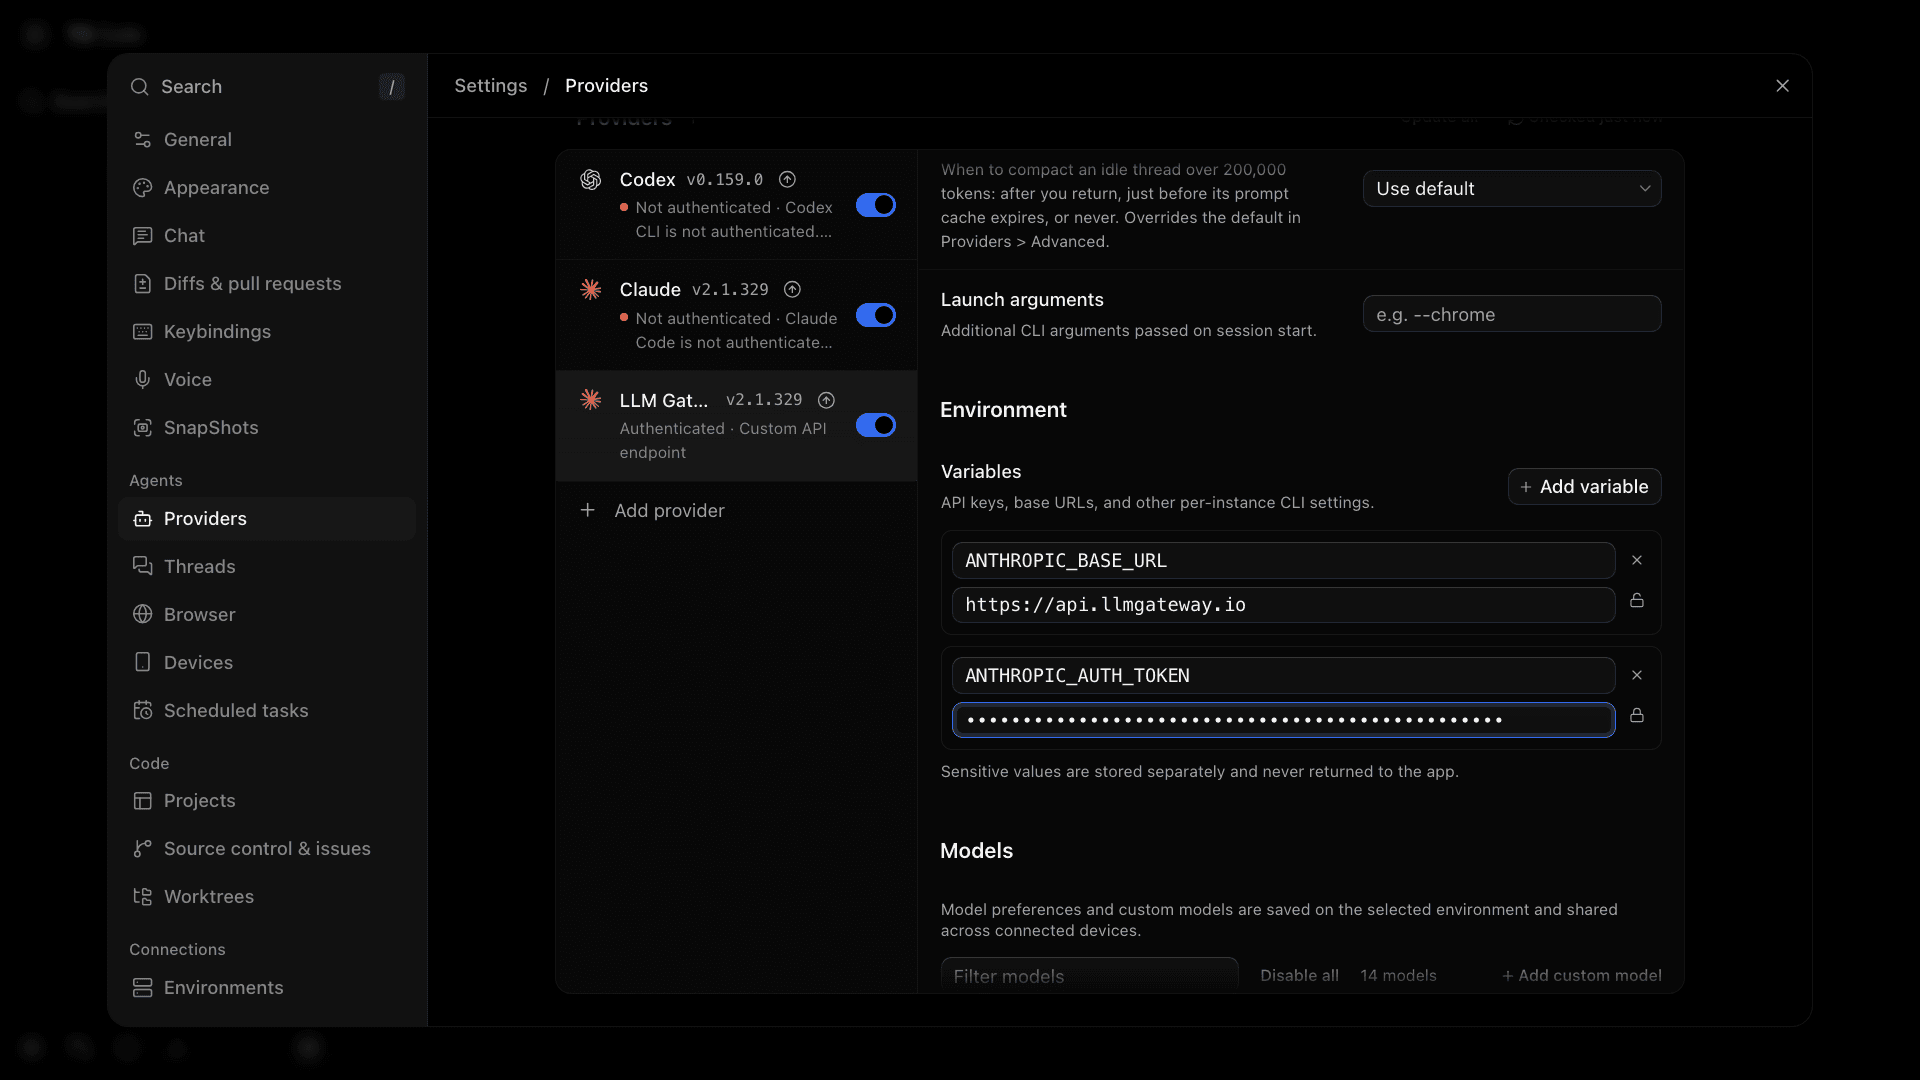
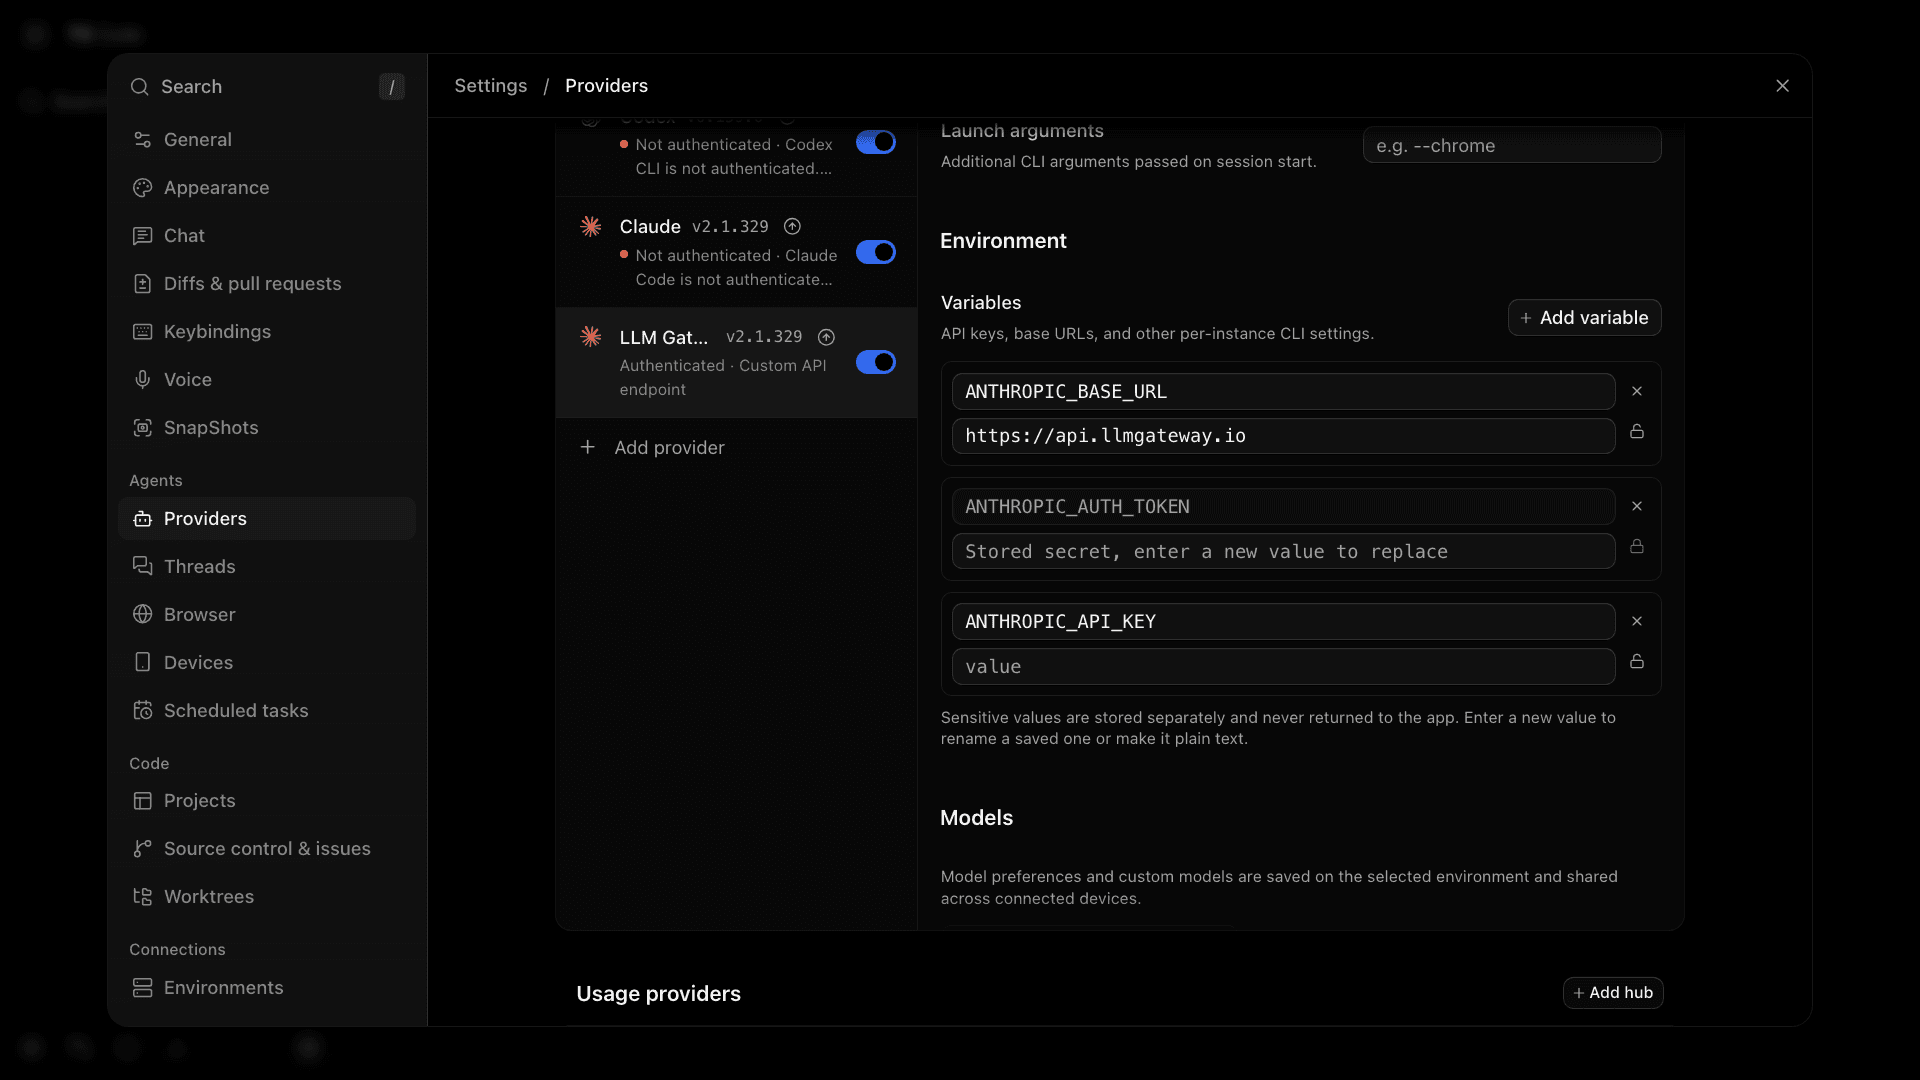
docs(guides): apply T3 Code guide review (#5185)
## Summary

#5184 added the T3 Code guide and merged while CodeRabbit's code review
was rate limited. Two independent reviews were then run and posted on
that PR ([fact
check](https://github.com/theopenco/llmgateway/pull/5184#pullrequestreview-6008586116),
[editorial, SEO, and
accessibility](https://github.com/theopenco/llmgateway/pull/5184#pullrequestreview-6008586220)).
This PR applies their findings to both copies of the guide.

| Finding | Change |
| --- | --- |
| `ANTHROPIC_API_KEY` was only suggested conditionally | Listed as a
third variable with an empty value; new screenshot shows all three |
| The model picker step came before a project and thread existed | "Try
a coding task" now starts with **Add project**, then the picker, then
the prompt |
| The Codex note could not be followed | Spells out the directory,
`config.toml`, **Configure manually**, and a model that passed |
| Vague claim about built-in Claude models | Names the built-in model
that passed and says what to do when one is rejected |
| Lock instruction arrived after the step it applies to |
Sensitive-value paragraph rewritten in order |
| Prompt assumed the reader's project has `slugify.ts` | Says the prompt
comes from the demo project |
| "Check your dashboard" did not say where | Names the project's
**Activity** page, as the Conductor guide does |
| Troubleshooting missed failures the body sets up | Adds a missing
`claude` binary, an unsaved base URL, and a wrong key |
[…]

diff --git a/apps/ui/src/content/guides/t3codes.md b/apps/ui/src/content/guides/t3codes.md
@@ -7,9 +7,9 @@ description: Add an LLM Gateway provider to T3 Code, choose a model, and verify 
 date: 2026-11-21
 ---
 
-[T3 Code](https://t3.codes) is an open-source desktop, web, and mobile interface for the coding agents installed on your machine. It does not call models itself: it drives Claude Code, Codex, OpenCode, and other agents. Point one of them at LLM Gateway and every thread you start in T3 Code runs on the gateway model you choose.
+[T3 Code](https://t3.codes) is an open-source desktop, web, and mobile interface for the coding agents installed on your machine. It does not call models itself: it drives Claude Code, Codex, OpenCode, and other agents. Point one of them at LLM Gateway and every thread you start in T3 Code runs on the model you choose from the catalogue.
 
-This walkthrough was verified with T3 Code 0.1.11 and Claude Code 2.1.329: the agent read a TypeScript project, fixed a function, and ran its tests with `glm-5.2` through the gateway.
+This walkthrough was verified with T3 Code 0.1.11 and Claude Code 2.1.329: the agent read a TypeScript project, fixed a function, and ran its tests with `glm-5.2` through LLM Gateway.
 
 ## Video walkthrough
 
@@ -28,12 +28,14 @@ This walkthrough was verified with T3 Code 0.1.11 and Claude Code 2.1.329: the a
 ## Prerequisites
 
 - Install T3 Code from the&nbsp;[download page](https://t3.codes/download) or with `brew install --cask t3-code`. To try the server and web app once without installing, run `npx t3@latest`.
-- Install Claude Code using the&nbsp;[official instructions](https://code.claude.com/docs/en/setup). You do not need an Anthropic login for this setup.
+- Install Claude Code using the&nbsp;[Claude Code setup instructions](https://code.claude.com/docs/en/setup), then check `claude --version`. It is the agent this guide configures, and it needs no Anthropic login here. Codex and OpenCode are covered at the end.
 - Create an&nbsp;[LLM Gateway API key](https://docs.llmgateway.io/learn/api-keys), or use a&nbsp;[DevPass](https://devpass.llmgateway.io) plan key.
 
-## Add an LLM Gateway provider
+## Add an LLM Gateway provider to T3 Code
 
-T3 Code calls each configured agent a provider instance. Add a Claude instance that only talks to the gateway:
+In T3 Code, each configured agent is a provider instance. Add a Claude instance that only talks to LLM Gateway.
+
+On first launch, T3 Code shows a welcome page with the agents it found. If no agent is ready, click **Start without an agent**; otherwise click **Start**. Then:
 
 1. Open **Settings → Providers** and click **Add provider**.
 2. Choose **Claude**, then click **Next**.
@@ -44,62 +46,73 @@ The separate config directory keeps this instance apart from any Anthropic login
 
 ## Set the endpoint and key
 
-Select the new instance, scroll to **Environment**, and add these variables with **Add variable**:
+Select the new instance, scroll to **Environment**, and click **Add variable** for each of these:
 
 | Variable               | Value                       |
 | ---------------------- | --------------------------- |
 | `ANTHROPIC_BASE_URL`   | `https://api.llmgateway.io` |
 | `ANTHROPIC_AUTH_TOKEN` | Your LLM Gateway API key    |
+| `ANTHROPIC_API_KEY`    | Add with an empty value     |
 
-Use the base URL exactly as shown. Claude Code adds `/v1/messages` itself.
+Use the base URL exactly as shown. Claude Code adds `/v1/messages` itself. The empty `ANTHROPIC_API_KEY` stops an Anthropic key in your environment from overriding the LLM Gateway key.
 
-Values are sensitive by default: T3 Code stores them separately and shows **Stored secret** instead of the value afterwards. Click the lock next to a value before typing it to keep it readable, as the base URL is in the screenshot below. Leave the key sensitive.
+Values are sensitive by default: T3 Code stores them separately and shows **Stored secret** instead of the value afterwards. Leave the key sensitive. For the other two, click the lock next to the value first, so they are saved as plain text and stay readable, as in the screenshot below.
 
-The instance status changes to **Authenticated · Custom API endpoint**.
+The instance status changes to **Authenticated · Custom API endpoint** once the base URL is saved. The status does not check the key, so a wrong key only fails when you send a message.
 
-![An LLM Gateway Claude instance in T3 Code's provider settings with the endpoint and key variables](/images/guides/t3codes/providers.png)
+![An LLM Gateway Claude instance in T3 Code's provider settings with the three environment variables](/images/guides/t3codes/providers.png)
 
-If your shell profile exports `ANTHROPIC_API_KEY`, also add that variable with an empty value. T3 Code's router setup uses this to stop an existing key from overriding the gateway token.
+The default **Claude** instance can stay signed out. A thread uses the instance whose model you select.
 
 ## Choose a model
 
-Most of T3 Code's built-in Claude models use the same IDs as the LLM Gateway catalogue, so they route through the gateway without further setup.
+T3 Code sends its built-in Claude models by ID. In T3 Code 0.1.11, 13 of the 14 built-in IDs exist in the LLM Gateway catalogue, and Claude Haiku 5.5 passed the task in this guide without further setup.
 
-For any other model, or a built-in one the gateway rejects as unsupported, scroll to **Models** in the same instance, click **Add custom model**, and enter the exact ID from the&nbsp;[models page](https://llmgateway.io/models?features=tools), for example `glm-5.2`. Choose a model with tool support. Custom models can show fewer reasoning controls than the built-in ones.
+For any other model, or a built-in one that LLM Gateway rejects as unsupported, scroll to **Models** in the same instance, click **Add custom model**, and enter the exact ID from the&nbsp;[tool-capable models list](https://llmgateway.io/models?features=tools), for example `glm-5.2`. Custom models can have fewer effort and thinking controls than the built-in ones.
 
-In a thread, open the model picker in the composer and select a model listed under your **LLM Gateway** instance.
-
-![T3 Code's model picker with the LLM Gateway instance selected and a custom gateway model](/images/guides/t3codes/model-picker.png)
-
-> **Using DevPass?** Use a canonical model ID without an upstream provider prefix, and choose a model included in your plan. The gateway selects the serving provider for coding plans.
+> **Using DevPass?** Use a canonical model ID without an upstream provider prefix, and choose a model included in your plan. LLM Gateway selects the serving provider for coding plans.
 
 ## Try a coding task
 
-Click **Add project**, choose **Local folder**, and select your repository. Then ask for a specific fix and a way to check it:
+Click **Add project**, choose **Local folder**, and enter your repository's path. T3 Code opens a new thread for the project.
+
+Open the model picker at the bottom of the composer and select a model under your **LLM Gateway** instance. Confirm the selection before your first message: T3 Code preselects a model for new threads, which was Claude Opus 5.5 in this walkthrough.
+
+![T3 Code's model picker with the LLM Gateway instance selected and a custom model from the catalogue](/images/guides/t3codes/model-picker.png)
+
+Then ask for a specific fix and a way to check it. This prompt comes from the demo project, so replace the file and the test command with your own:
 
 ```text
 Fix slugify.ts so all tests pass. Read the files, make the smallest fix,
 run node --test slugify.test.ts, and summarize. Do not edit the tests.
 ```
 
-New threads start in **Full access**, which runs commands and edits without prompts. Switch the thread to **Supervised** in the composer to approve each command and file change.
+By default, new threads use **Full access**, which runs commands and edits without prompts. Switch the thread to **Supervised** in the composer to approve each command and file change.
 
-When the turn finishes, click **Open diff** to review the change before you commit it. Then check the request's model, tokens, and cost in your&nbsp;[LLM Gateway dashboard](https://llmgateway.io/dashboard).
+When the turn finishes, click **Open diff** to review the change before you commit it. Then open your&nbsp;[LLM Gateway dashboard](https://llmgateway.io/dashboard), select the project that issued the key, and open **Activity** to see the request's model, tokens, and cost.
 
 ![T3 Code showing the finished thread and the diff for the fixed function](/images/guides/t3codes/verified-session.png)
 
 ## Use Codex or OpenCode instead
 
-T3 Code passes an instance's environment variables to Codex and OpenCode in the same way. We ran the task above through both, with Codex CLI 0.159.0 and OpenCode 1.18.29.
+T3 Code passes an instance's environment variables to Codex and OpenCode in the same way. The same task also passed through both, with Codex CLI 0.159.0 and OpenCode 1.18.29.
 
-- **OpenCode:** add an **OpenCode** provider and set `LLMGATEWAY_API_KEY` in its **Environment** variables. Gateway models then appear in the model picker. The&nbsp;[OpenCode guide](/guides/opencode) covers its own configuration.
-- **Codex:** add a **Codex** provider with **Configure manually**, and point the `CODEX_HOME` path at a directory whose `config.toml` contains the provider block from the&nbsp;[Codex CLI guide](/guides/codex-cli). Then set `LLMGATEWAY_API_KEY` in the instance's **Environment** variables.
+- **OpenCode:** click **Add provider**, choose **OpenCode**, and set `LLMGATEWAY_API_KEY` in the new instance's **Environment** variables. The model picker then lists the catalogue under **LLM Gateway** and **DevPass (LLM Gateway)**. The&nbsp;[OpenCode guide](/guides/opencode) covers its own configuration.
+- **Codex:** create a directory such as `~/.codex_llmgateway` and save the provider block from the&nbsp;[Codex CLI guide](/guides/codex-cli) as `config.toml` inside it. Click **Add provider**, choose **Codex**, then **Configure manually**, and set the `CODEX_HOME` path to that directory. Then set `LLMGATEWAY_API_KEY` in the instance's **Environment** variables and pick a model that exists in the catalogue. GPT-5.6 Terra from the built-in list passed the task.
 
 ## Troubleshooting
 
+### The instance shows Not found
+
+T3 Code cannot find the `claude` binary. Install Claude Code, check `claude --version` in a terminal, then click **Refresh provider status**.
+
 ### The instance shows Not authenticated
 
-Check that both variables are saved: a saved sensitive value reads **Stored secret**. Confirm that the base URL has no `/v1` suffix, then click **Refresh provider status**.
+`ANTHROPIC_BASE_URL` is missing, was not saved, or does not start with `https://`. Enter `https://api.llmgateway.io`, then click **Refresh provider status**.
+
+### A thread shows Retrying provider, then a 401 error
+
+The key is wrong or revoked. The instance status does not check it. Enter a current LLM Gateway key in `ANTHROPIC_AUTH_TOKEN`, then start a new thread.
 
 ### Requests still use your Anthropic account
 
@@ -107,7 +120,7 @@ The thread is running on the default **Claude** instance. Open the model picker 
 
 ### Model not found
 
-Copy the exact ID from the&nbsp;[models page](https://llmgateway.io/models) into **Add custom model**. On DevPass, remove any upstream provider prefix.
+Copy the exact ID from the&nbsp;[model catalogue](https://llmgateway.io/models) into **Add custom model**. On DevPass, remove any upstream provider prefix.
 
 ### The agent stops early or prints raw tool-call text
 
